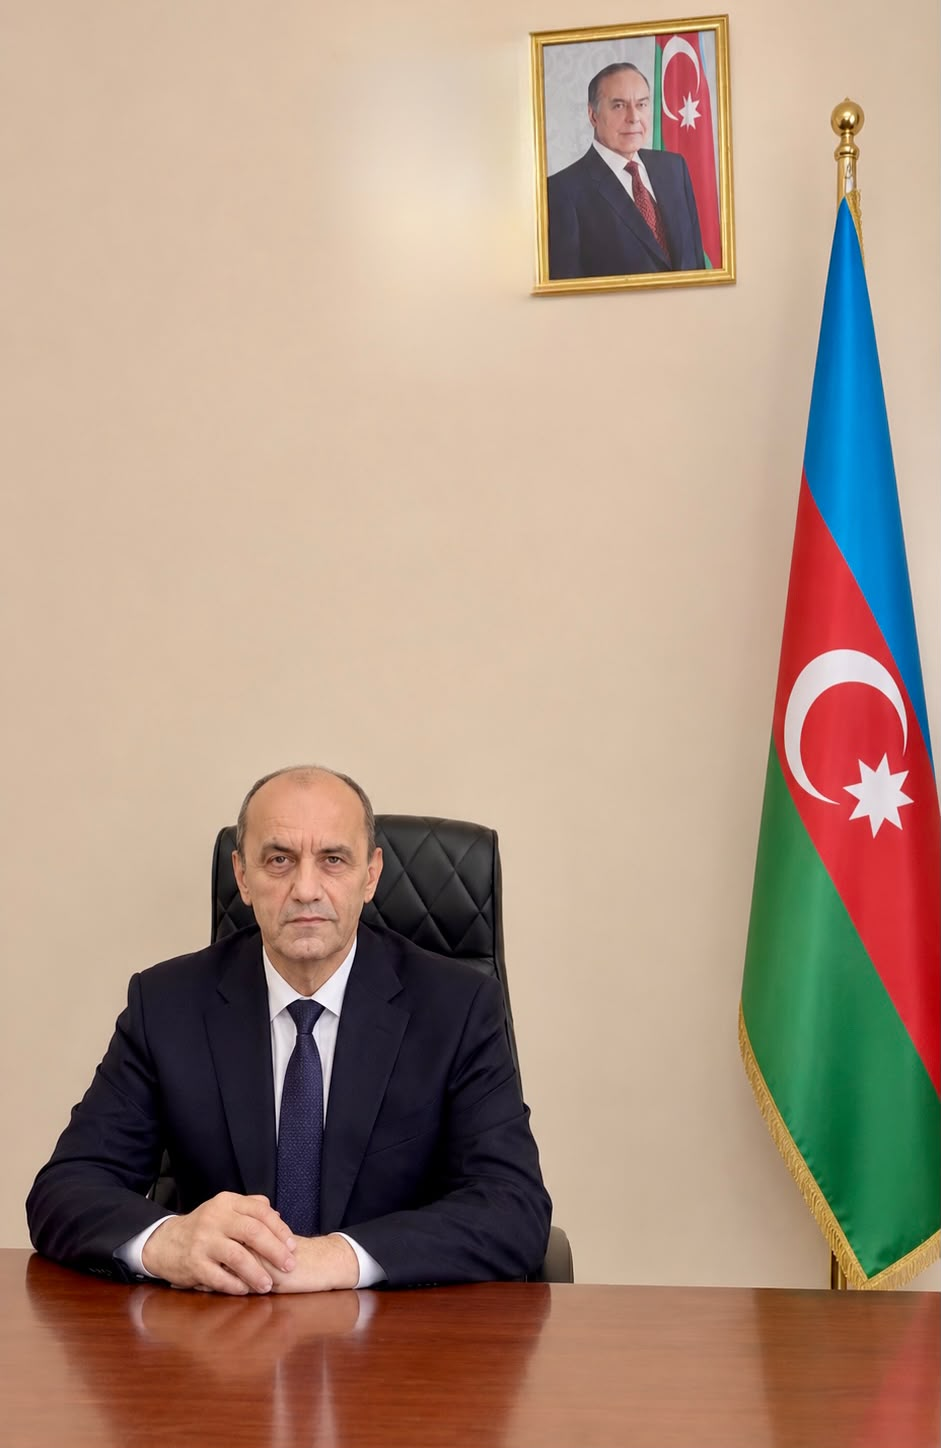
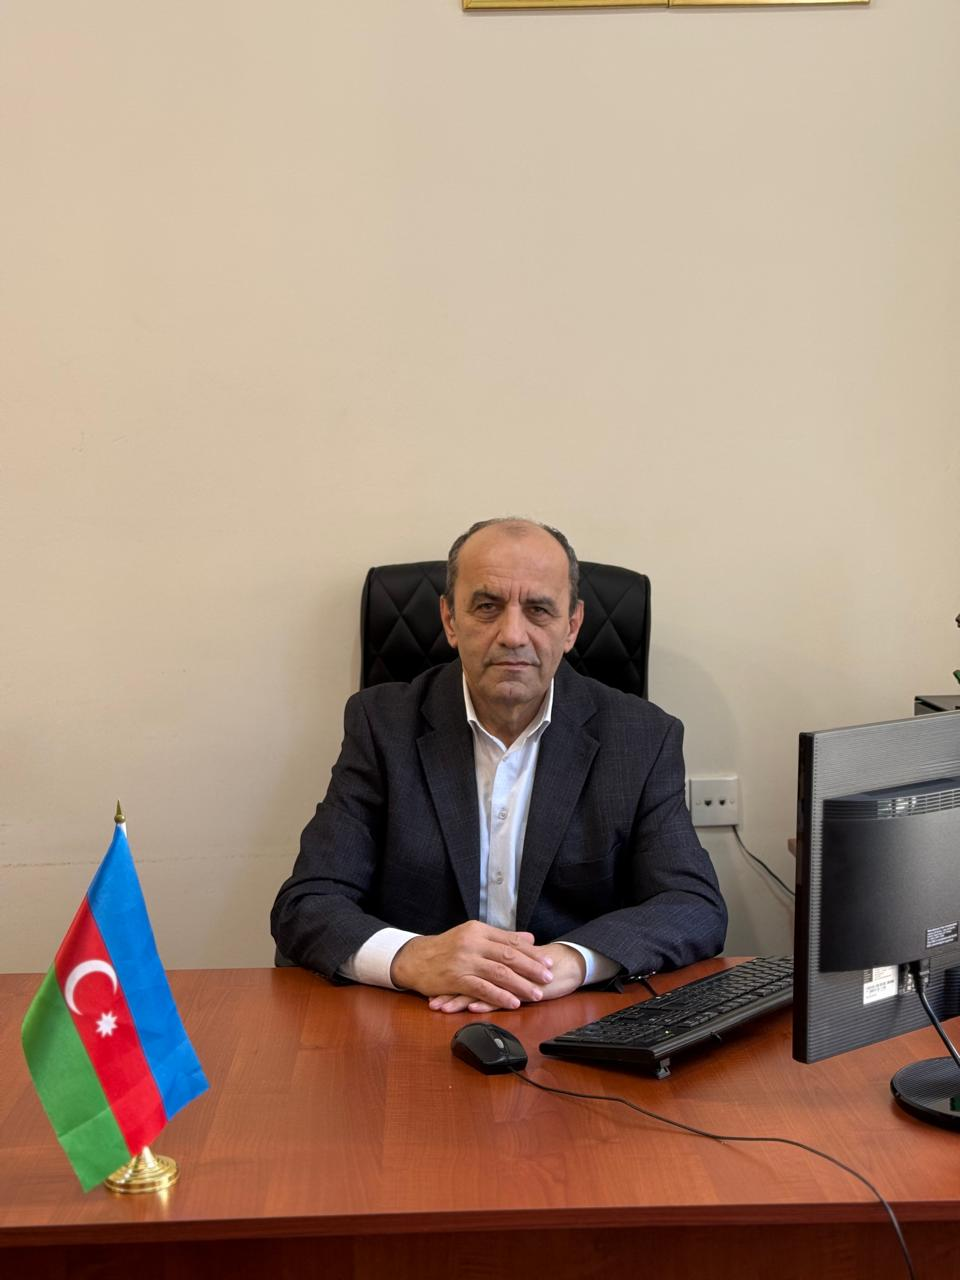
feat(staff): update EHM Engineer (Fizuli Qurbanov) official photo

diff --git a/style.css b/style.css
@@ -4618,12 +4618,18 @@ body.dark-mode .sun-and-moon>.moon>circle {
   transform: scale(1.1);
 }
 
-.person-detail-photo-frame.fizuli-photo img,
-.person-detail-photo-frame.xelil-photo img {
-  object-position: center 12%;
+.person-detail-photo-frame.fizuli-photo img {
+  object-position: center 38%;
+  transform: scale(1.05);
 }
 
+.tree-card-grid-block[data-person-id="29"] .tree-grid-avatar-wrap img,
 .tree-dept-card[data-person-id="29"] .tree-dept-avatar img {
+  object-position: center 38%;
+  transform: scale(1.08);
+}
+
+.person-detail-photo-frame.xelil-photo img {
   object-position: center 12%;
 }
 
@@ -5021,10 +5027,11 @@ body.dark-mode .sun-and-moon>.moon>circle {
   transition: transform 0.5s ease;
 }
 
-/* Fizuli's photo is landscape, needs special framing */
+/* Fizuli Qurbanov official photo */
 .fizuli-card .card-img-wrap img {
   object-fit: cover !important;
-  object-position: center 5% !important;
+  object-position: center 38% !important;
+  transform: scale(1.05);
 }
 
 /* Xelil's photo framing */

diff --git a/script.js b/script.js
@@ -3221,7 +3221,7 @@ const staffData = {
       role_az: "EHM üzrə mühəndis",
       role_en: "Electronic Computer Engineer",
       role_ru: "Инженер по ЭВМ",
-      img: "fizulix.jpeg",
+      img: "fizuli.jpeg",
     },
     {
       id: "28",
